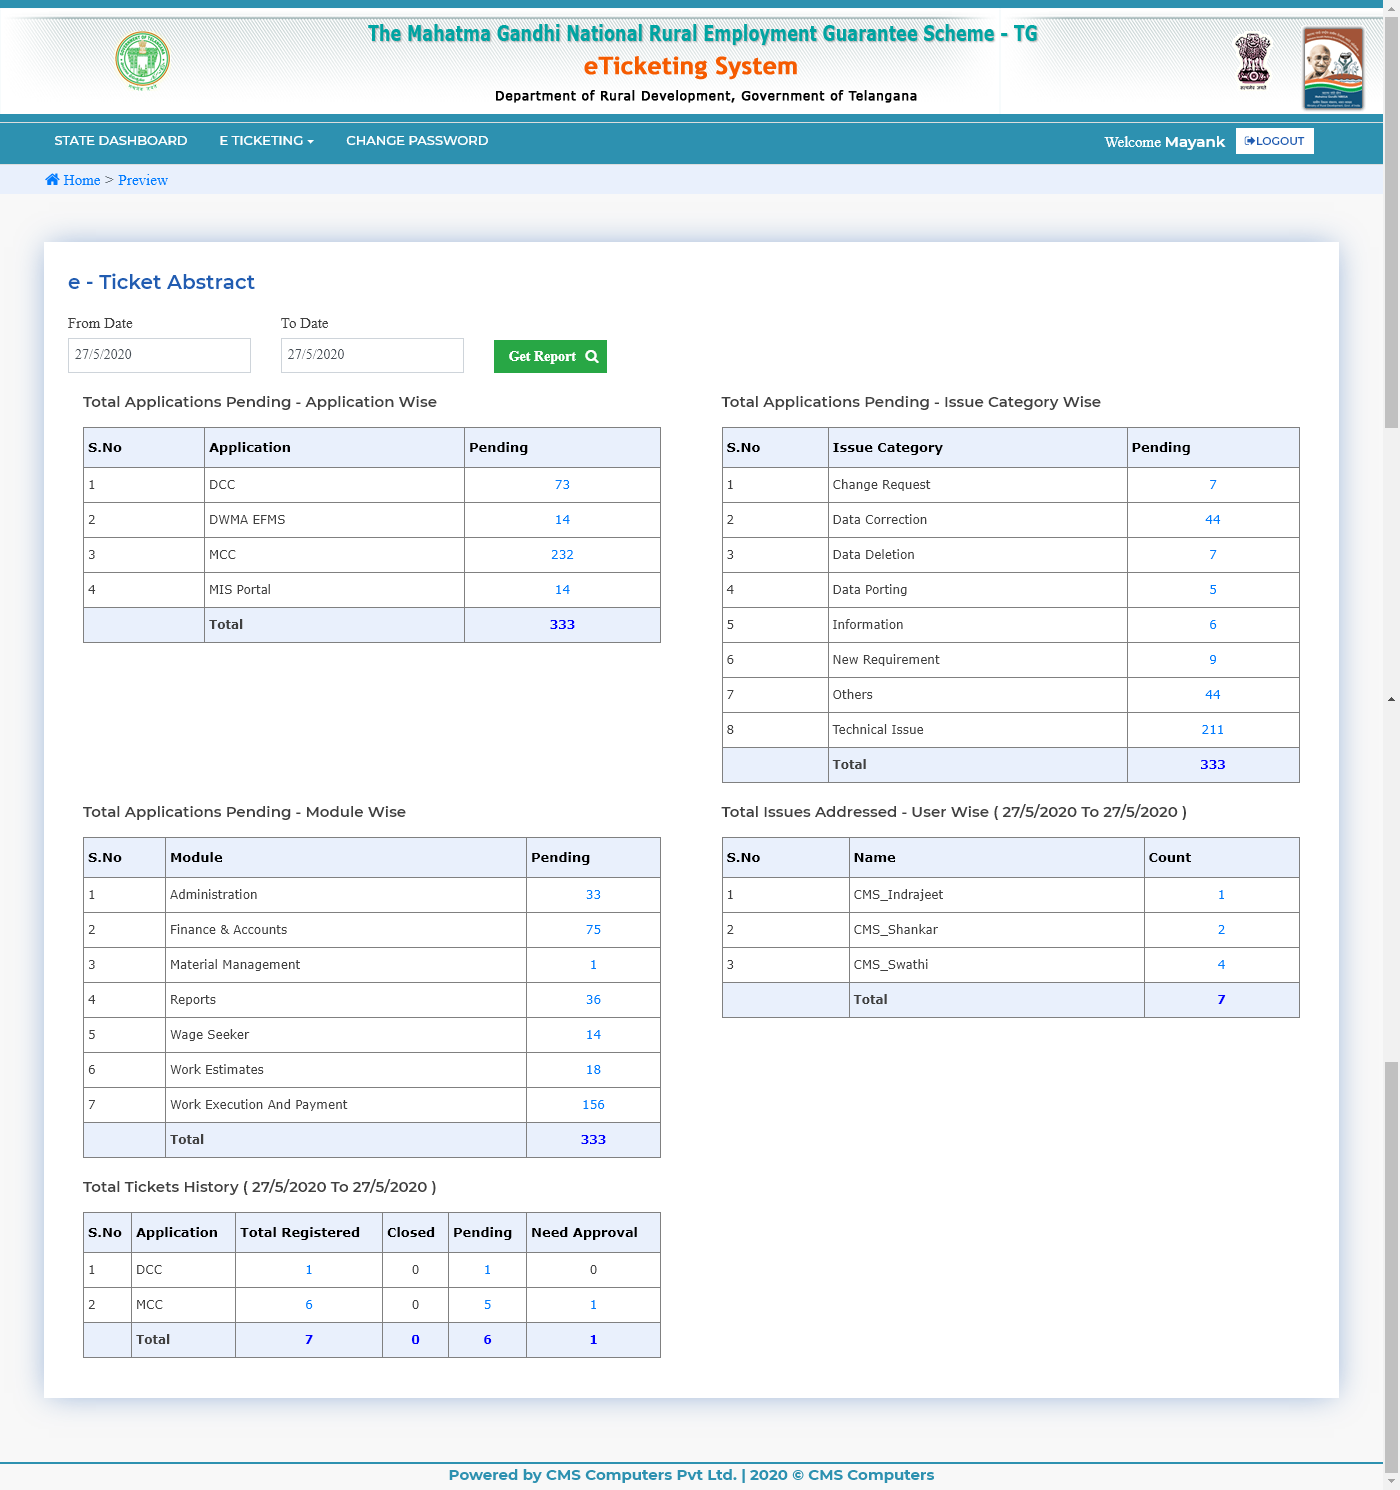
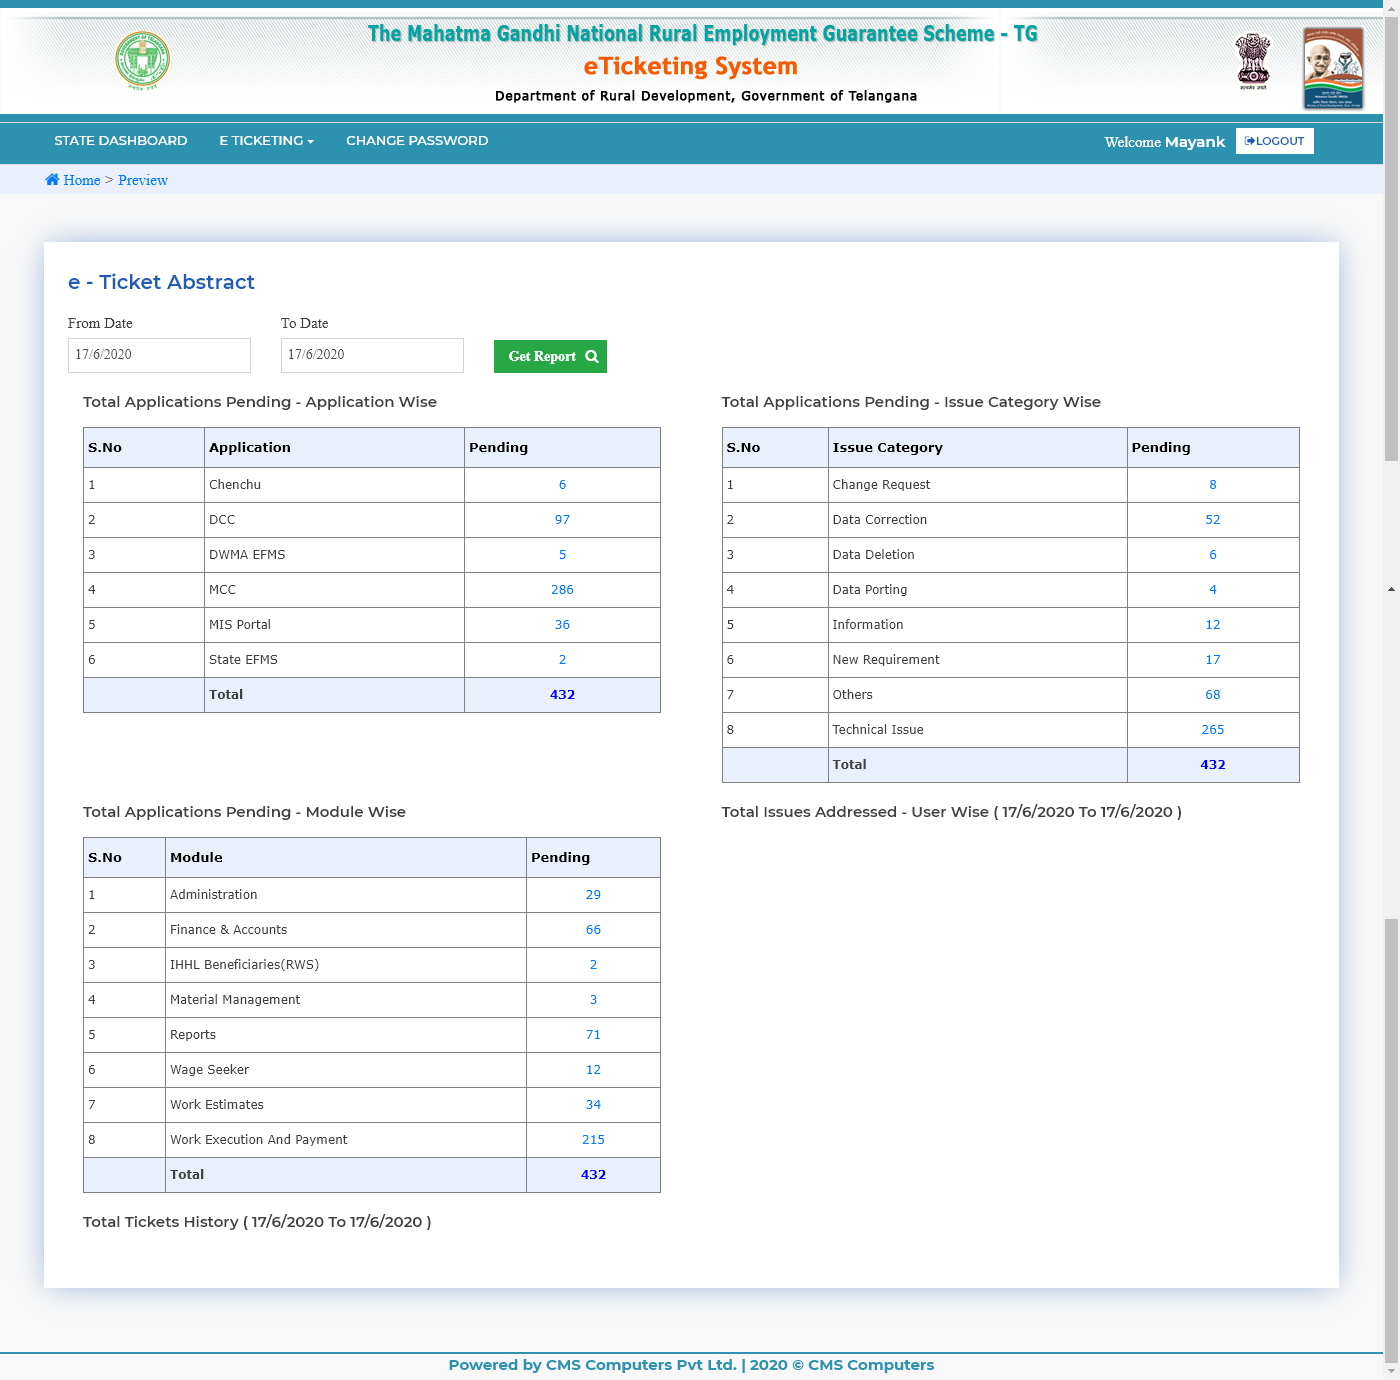
updated\

diff --git a/src/main/java/com/qa/eticketing/util/SendEmailToWithAttachement.java b/src/main/java/com/qa/eticketing/util/SendEmailToWithAttachement.java
@@ -96,7 +96,7 @@ public class SendEmailToWithAttachement {
 		this.messageBody += "<td>1.&nbsp;</td><td>Chenchu  	&nbsp;</td><td>&nbsp;" + PendingChenchuCount +"&nbsp; </td><tr>";
 		this.messageBody += "<td>2.&nbsp;</td><td>MCC  	&nbsp;</td><td>&nbsp;" + PendingMCCCount +"&nbsp; </td><tr>";
 		this.messageBody += "<td>3.&nbsp;</td><td>DCC  	&nbsp;</td><td>&nbsp;"+PendingDCCCount+"&nbsp; </td><tr>";
-		this.messageBody += "<td>4.&nbsp;</td><td>Mobile Application &nbsp;</td><td>&nbsp;"+PendingMobAppCount+"&nbsp; </td><tr>";
+		this.messageBody += "<td>4.&nbsp;</td><td>State EFMS &nbsp;</td><td>&nbsp;"+PendingMobAppCount+"&nbsp; </td><tr>";
 		this.messageBody += "<td>5.&nbsp;</td><td>DWMA EFMS &nbsp;</td><td>&nbsp;"+PendingDWMAEFMSCount+"&nbsp; </td><tr>";
 		this.messageBody += "<td>6.&nbsp;</td><td>MIS Portal &nbsp;</td><td>&nbsp;"+PendingMISPortalCount +" &nbsp; </td></tr><tr>";
 		this.messageBody += "<tr style=\"background-color: #a9c2e8;\"><td></td><td><strong>Total Pending Count &nbsp;</strong></td><td><strong>&nbsp;"+PendingTotalCount +" &nbsp; </strong></td></tr><tr></body></html>";

diff --git a/src/main/java/com/qa/eticketing/pages/ETicketReportsPage.java b/src/main/java/com/qa/eticketing/pages/ETicketReportsPage.java
@@ -39,7 +39,7 @@ public class ETicketReportsPage extends TestBase {
 	WebElement PendingDWMAEFMS;
 	@FindBy(xpath = "//*[@id=\"ContentPlaceHolder1_gvdetailsnew\"]/tbody/tr/td[contains(text(),\"MIS Portal\")]/following-sibling::td/a")
 	WebElement PendingMISPortal;
-	@FindBy(xpath = "//*[@id=\"ContentPlaceHolder1_gvdetailsnew\"]/tbody/tr/td[contains(text(),\"Mobile Application\")]/following-sibling::td/a")
+	@FindBy(xpath = "//*[@id=\"ContentPlaceHolder1_gvdetailsnew\"]/tbody/tr/td[contains(text(),\"State EFMS\")]/following-sibling::td/a")
 	WebElement PendingMobApp;
 
 	public ETicketReportsPage() {
